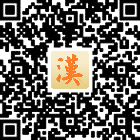
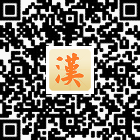
pinyin

Changed region(s): [[0.3143, 0.3143, 0.6857, 0.6857]]

diff --git a/AppShowcase/pinyin.html b/AppShowcase/pinyin.html
@@ -18,26 +18,26 @@
 			
 			<header class="clearfix">
 				<div class="inner">
-					<h1>汉字听写<span>中华国粹，你还会写多少</span></h1>
+					<h1>拼音达人<span>这些身边的汉字，是否你也犹豫过应该怎么读它</span></h1>
 					<nav class="codrops-demos">
-						<a href="http://apkc.mumayi.com/2014/04/17/60/600267/hanzitingxie_V3.0_mumayi_62a03.apk">
-							<img src="images/erwei.png" />
+						<a href="http://apka.mumayi.com/2014/04/17/60/600312/pinyindaren_V2.9_mumayi_bd985.apk">
+							<img src="images/erwei2.png" />
 						</a>
 					</nav>
 				</div>
 			</header>
 			<div class="main">
 				<div id="ac-wrapper" class="ac-wrapper">
-					<h2>身边的一些词语<span>是否你已经熟悉了拼音输入？</span><span>多久没有提起笔来书写？</span><span>现在是手写逆袭的时代了！</span></h2>
+					<h2>纠正你的口误<span></span><span>让我们中国人认真读读汉字！</span></h2>
 					<div class="ac-device">
-						<a href="#"><img src="images/screen3.png"></a>
+						<a href="#"><img src="images/screen6.png"></a>
 						<h3 class="ac-title"> 游戏页面</h3>
 					</div>
 					<div class="ac-grid">
-						<a href="#"><img src="images/screen1.png"><span>加载页</span></a>
-						<a href="#"><img src="images/screen2.png"><span>首页</span></a>
-						<a href="#"><img src="images/screen3.png"><span>游戏页面</span></a>
-						<a href="#"><img src="images/screen4.png"><span>关于感谢</span></a>
+						<a href="#"><img src="images/screen5.png"><span>首页</span></a>
+						<a href="#"><img src="images/screen6.png"><span>游戏页面</span></a>
+						<a href="#"><img src="images/screen7.png"><span>历史数据</span></a>
+						<a href="#"><img src="images/screen8.png"><span>关于感谢</span></a>
 					</div>
 				</div>			
 			</div>

diff --git a/AppShowcase/css/default.css b/AppShowcase/css/default.css
@@ -129,20 +129,6 @@ a:hover {
 	padding-top: 1em;
 }
 
-.codrops-demos a {
-    display: inline-block;
-    margin: 1em;
-    line-height: 2;
-    color: #666;
-    font-weight: 700;
-    border-bottom: 4px solid transparent;
-}
-
-.codrops-demos h3 {
-    display: inline;
-    
-}
-
 .codrops-demos a:hover {
 	color: #000;
 	border-color: #000;
